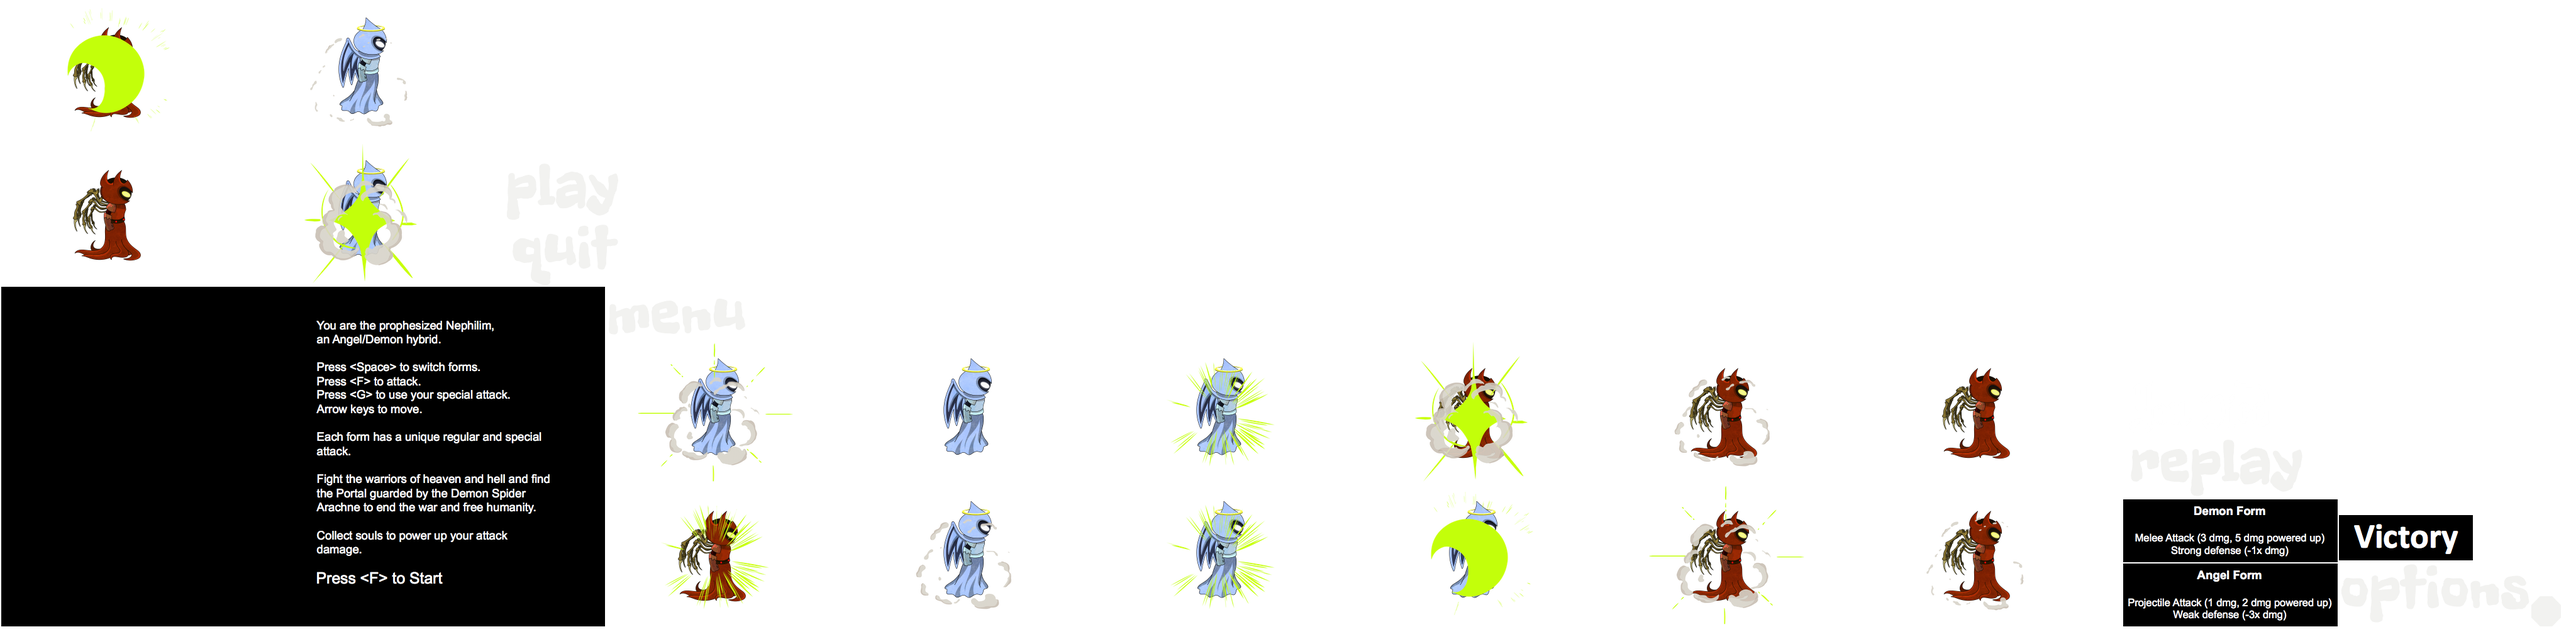
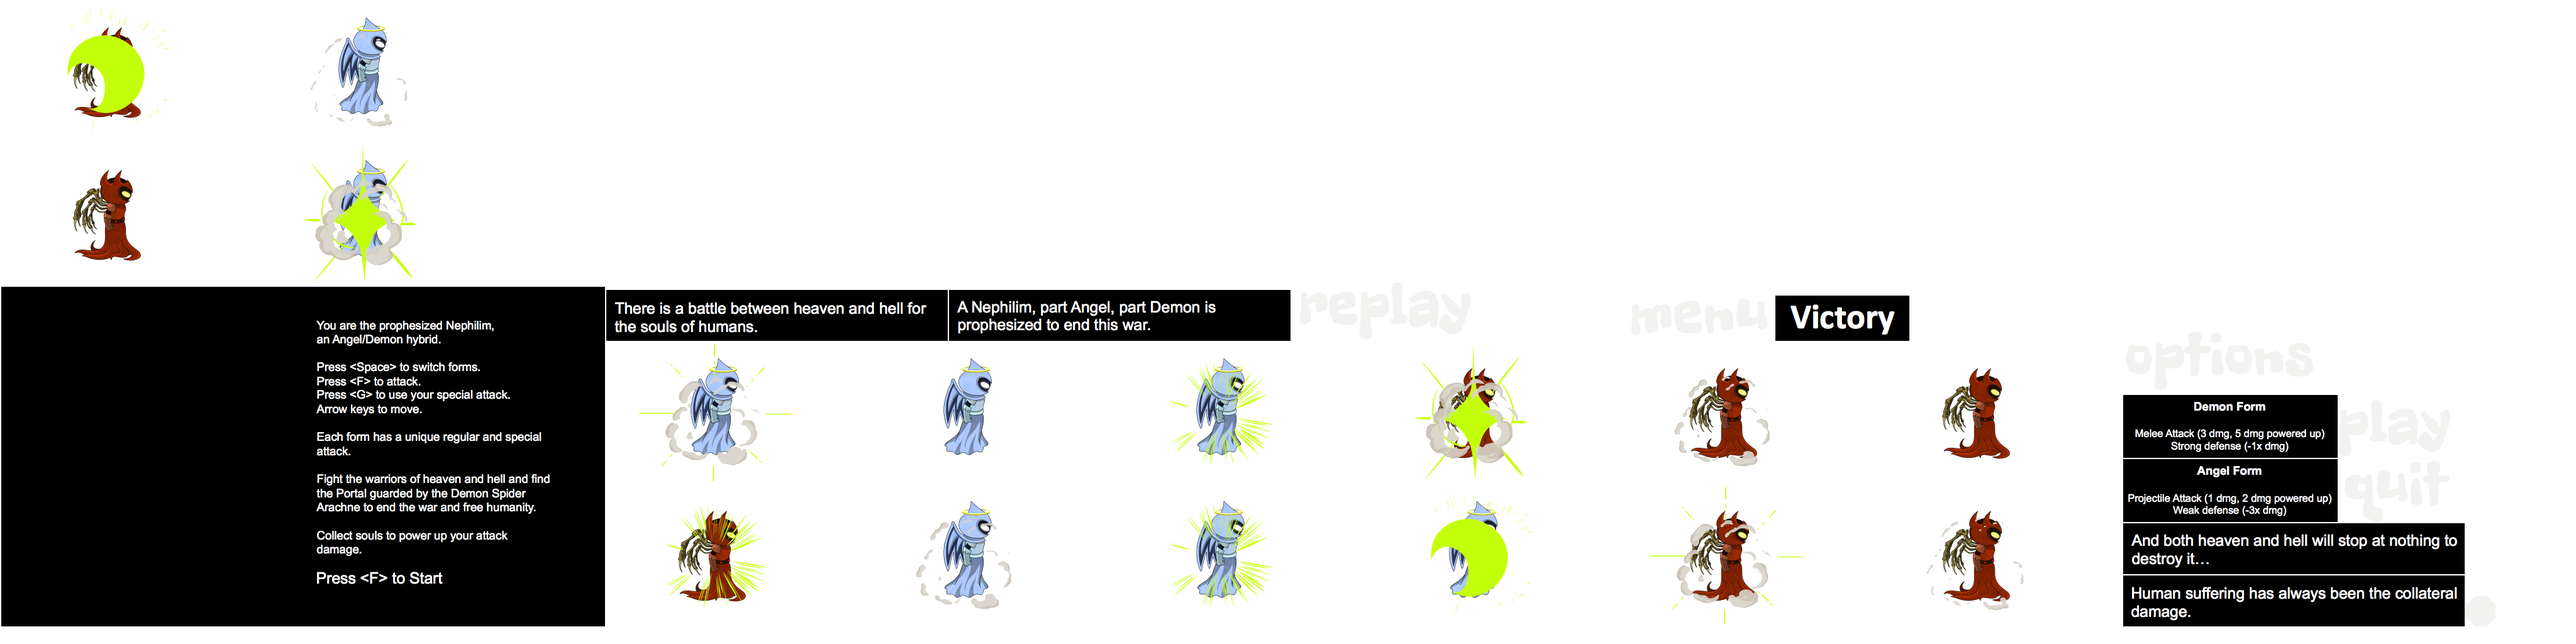
added images for first launch introduction, and made angel take 3 x damage compared to demon, and demon inflict 3x damage compared to angel

Changed region(s): [[0.8125, 0.5938, 0.9688, 1.0], [0.2188, 0.4375, 0.5, 0.5312], [0.6875, 0.4375, 0.75, 0.5312]]

diff --git a/core/src/com/gameoff/game/objects/Player.java b/core/src/com/gameoff/game/objects/Player.java
@@ -98,7 +98,7 @@ public class Player extends DirectionEntity implements AnimationListener {
 	private static final float MAXPUSHBACK = 100;
 	private float damageDuration = 1.5f;
 	private float damageElapsed = 0;
-	private float m_damageMultiplier = 0f;
+	private float m_damageMultiplier = 0f; //reduces damage
 	private float m_weaponDamageMultiplier = 1f;
 	
 	private Action a_setIdling = new Action() {
@@ -469,9 +469,10 @@ public class Player extends DirectionEntity implements AnimationListener {
 				float dmg = amount * m_damageMultiplier;
 				if (form == Form.Angel)
 				{
-					//double damage when angel!
+					//take triple damage when angel!
 					getHealth().changeHealthNoListener(-amount);
-					dmg += amount * m_damageMultiplier;
+					getHealth().changeHealthNoListener(-amount);
+					dmg = amount * m_damageMultiplier * 3;
 				}
 
 				//add back health if you have the shield
@@ -842,7 +843,7 @@ public class Player extends DirectionEntity implements AnimationListener {
 	{
 		m_weaponDamageMultiplier = 2f;
 		if (melee != null)
-			melee.setDamage(m_weaponDamageMultiplier*2);
+			melee.setDamage(m_weaponDamageMultiplier*3);
 	}
 
 	// melee attack
@@ -1067,7 +1068,7 @@ public class Player extends DirectionEntity implements AnimationListener {
 				melee.lifetime = MELEE_LIFE;
 				melee.getAnimation().setAnimation(MELEE_ATTACK,PlayMode.NORMAL);
 				setupMelee(melee);
-				melee.setDamage(m_weaponDamageMultiplier*2);
+				melee.setDamage(m_weaponDamageMultiplier*3);
 
 				getGameLayer().addGameObject(melee, KyperBoxGame.NULL_PROPERTIES);
 
